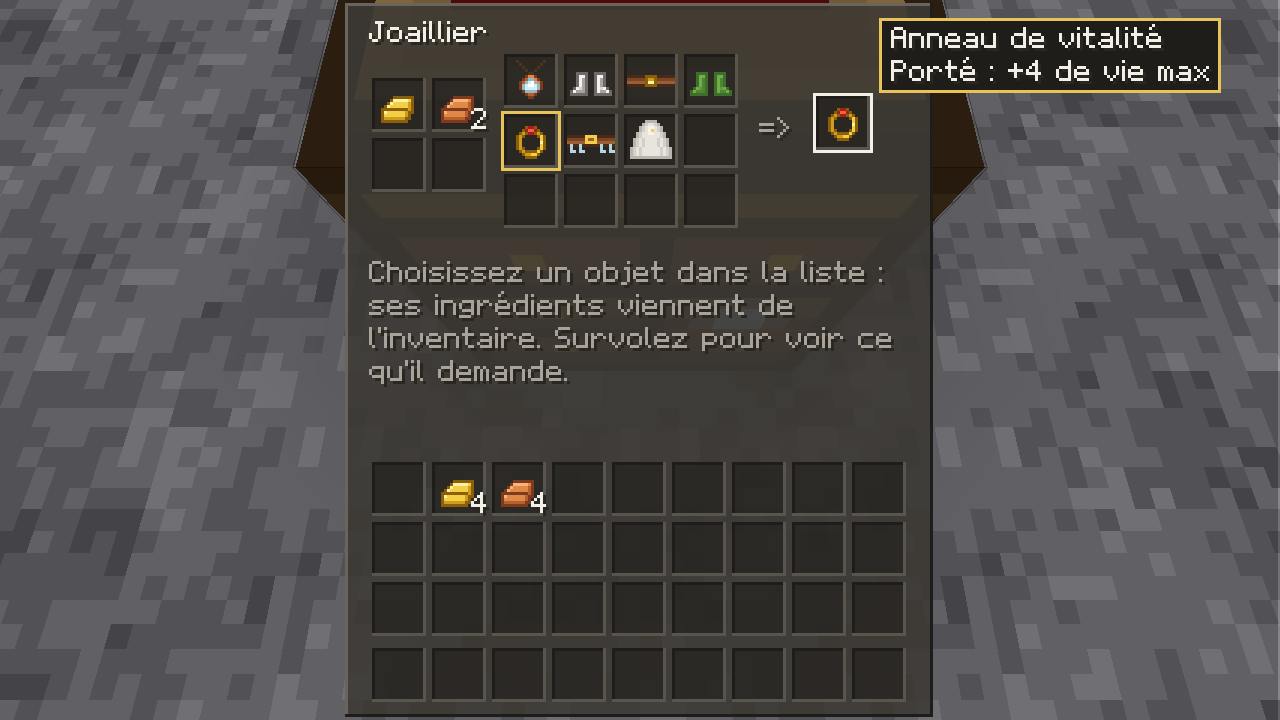
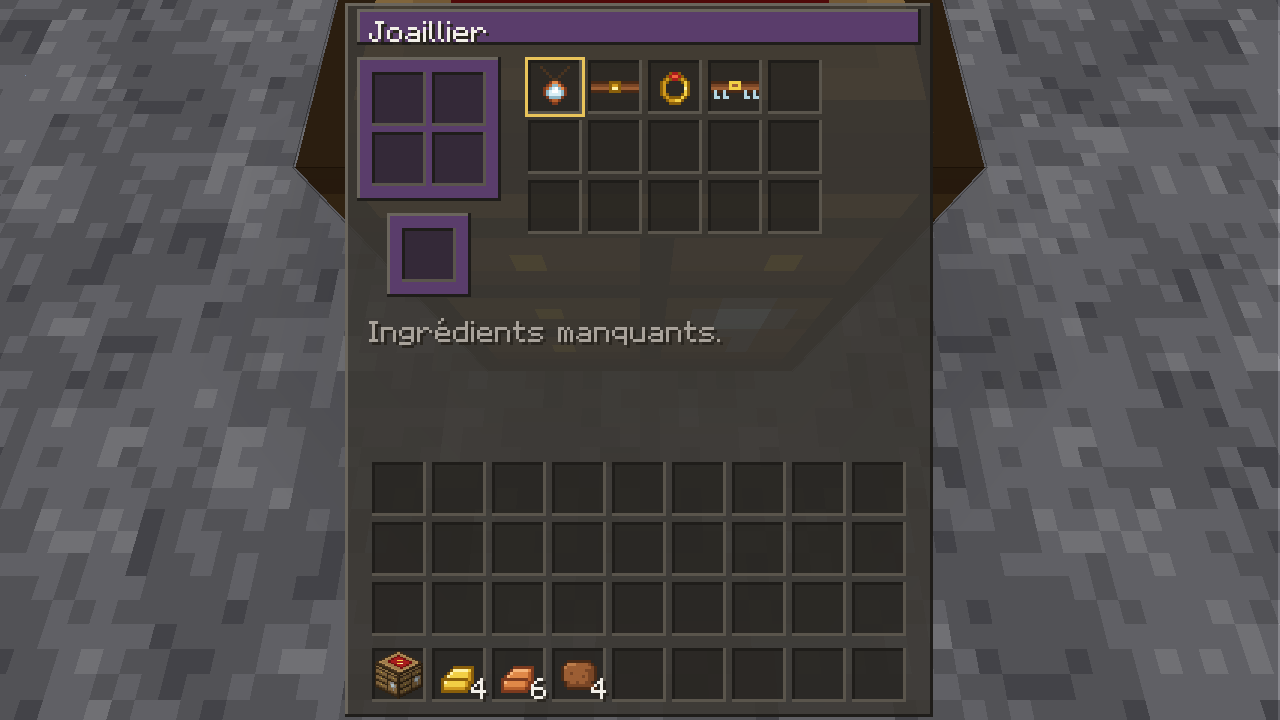
docs(stations): shorter bench help, captures, workshop scene, explanation, decisions D091-D092, balance tables; J6 done
Claude-Session: https://claude.ai/code/session_01RznEhak9j1HUkMPKL5bSvG

diff --git a/docs/explications/stations.md b/docs/explications/stations.md
@@ -1,0 +1,104 @@
+# Stations de travail
+
+## À quoi ça sert
+
+Chaque matériau se travaille à **sa** station : le bois et les outils à l'établi, la pierre au tailleur, les minerais au four, le métal à la **forge**, le cuir à la **tannerie**, le tissu et la laine au **métier à tisser**, les bijoux au **joaillier**, les améliorations à l'**enclume**. Le joueur comprend où aller en regardant la station ; le monde se remplit d'ateliers qu'on a envie de construire.
+
+| Station | Genre (`StationDef`) | Ce qu'on y fait |
+|---|---|---|
+| Établi | `Crafting(3)` | grille 3×3 (outils, armes, blocs, stations) |
+| Fours | entité de bloc `furnace` | cuisson et fonte, avec combustible |
+| Tailleur de pierre | `Stonecutter` | variantes de pierre |
+| Enclume | `Anvil` | améliorations, réparations |
+| Forge | `Bench("strata:forge")` | anneaux, écailles, armures de métal et de diamant, bottes de mobilité |
+| Tannerie | `Bench("strata:tannery")` | cuir (provisoire), armure de cuir |
+| Métier à tisser | `Bench("strata:loom")` | tissu, laine (provisoire), vêtements de tissu, cape de laine |
+| Joaillier | `Bench("strata:jeweller")` | anneaux, amulettes, ceintures |
+
+## Comment ça marche
+
+### Un seul établi, quatre stations
+
+La forge, la tannerie, le métier à tisser et le joaillier sont le **même** établi générique (D089) : quatre cases, une liste de recettes, un résultat. Seuls changent le bloc, l'identifiant et les recettes :
+
+```ron
+// blocks/forge.ron
+Block(
+    textures: TopBottomSides(top: "strata:forge_top", bottom: "strata:cobblestone", sides: "strata:forge_side"),
+    station: Some(Bench("strata:forge")),
+    …
+)
+
+// bench_recipes/iron_plate_chestplate.ron
+BenchRecipe(
+    bench: "strata:forge",
+    ingredients: [(Item("strata:iron_ingot"), 8), (Tag("strata:coals"), 1)],
+    result: Result(item: "strata:iron_plate_chestplate"),
+)
+```
+
+Choisir une recette envoie `ChooseCut` au serveur, qui pose les ingrédients de l'inventaire dans les cases (`fill_bench`) ; prendre le résultat les consomme (`take_bench`). Le client ne décide rien.
+
+### Le charbon de la forge
+
+La forge « brûle » du charbon sans mécanique nouvelle : le charbon est **un ingrédient comme un autre** (le tag `strata:coals`, charbon ou charbon de bois), un par pièce de métal. Pas de jauge de chaleur ni d'entité de bloc : tout est dans les recettes, réglable par pack. Les écailles de diamant se taillent sans feu.
+
+### Un écran par station
+
+Chaque établi a son allure, décrite dans le pack :
+
+```ron
+// benches/forge.ron
+Bench(layout: Forge, accent: "#7a3b1e")
+```
+
+- `layout` choisit une **disposition** parmi celles que l'écran d'inventaire connaît (`Plain`, `Jeweller`, `Forge`, `Tannery`, `Loom`). Dans `assets/ui/inventory.ron`, chacune est un groupe `bench_layout_<nom>` qui place autrement les mêmes éléments : cases (2×2, en ligne pour la tannerie comme des peaux sur un séchoir, en colonne pour le métier comme une chaîne de fils), liste, résultat, aide.
+- `accent` colore les **bandes** (`Band`, un nouvel élément d'interface) : le bandeau du titre et la surface de travail sous les cases.
+- L'aide sous la liste est la traduction `bench-<espace>-<nom>` (sinon l'aide générale).
+- Sans fichier `benches/`, un établi prend la disposition `Plain` et les couleurs du thème : un pack peut ajouter un établi avec seulement un bloc et des recettes.
+
+La liste montre 5 × 3 recettes dans toutes les dispositions ; au-delà (la forge en a 29), les boutons « < » « > » et la molette la font défiler par rangées. À la manette, la croix passe d'un élément à l'autre comme partout.
+
+```mermaid
+flowchart LR
+    B[blocks/forge.ron : Bench id] --> S[écran d'inventaire]
+    St[benches/forge.ron : layout, accent] --> S
+    R[bench_recipes/ : bench = id] --> L[liste]
+    S --> G[groupe bench_layout_forge]
+    G --> L
+    L -- ChooseCut --> Srv[serveur : fill_bench, take_bench]
+```
+
+### Les recettes des stations
+
+À l'établi : forge = 3 lingots de fer sur un four entouré de 5 galets ; tannerie = bâtons en cadre autour d'une boue sur 3 planches ; métier à tisser = 3 bâtons sur 3 fibres sur 3 planches. La tannerie et le métier sont connus dès le départ (le cuir et le tissu sont les premières armures) ; la forge s'apprend.
+
+Le cuir et la laine restent **provisoires** (fibres et boue, fibres seules) jusqu'aux animaux de la v0.4 : leurs recettes sont déjà à la bonne station, il suffira d'en changer les ingrédients pour des peaux et de la laine de mouton.
+
+## Dans le code
+
+| Quoi | Où |
+|---|---|
+| Recettes d'établi, liste, poser, prendre | `crates/core/src/crafting/bench.rs`, `bench_load.rs` |
+| Allure d'un établi (`benches/`) | `crates/core/src/crafting/bench_style.rs` |
+| Fenêtre côté serveur | `crates/server/src/game/bench.rs` |
+| Écran : disposition, couleur, aide, défilement | `crates/client/src/screens/bench.rs`, `assets/ui/inventory.ron` |
+| Élément `Band` | `crates/client/src/ui/def.rs`, `ui/widgets/mod.rs` |
+| Tests | `crates/core/tests/stations.rs`, `crafting/bench_tests.rs`, `crates/client/src/screens/bench_tests.rs`, `crates/server/src/game/equipment_tests.rs` |
+| Wiki (page « Stations de travail ») | `crates/wikigen/src/stations.rs` |
+| Contenu | `assets/packs/strata/{blocks,benches,bench_recipes,recipes,textures}/` |
+
+<details><summary>Côté Rust</summary>
+
+- **Un `enum` pour les dispositions** : `BenchLayout` est lu par serde ; une valeur inconnue (`layout: Spinning`) devient une erreur de pack, au lieu d'un écran vide. `BenchLayout::ALL` permet au test de vérifier que l'écran a un groupe pour chacune.
+- **`#[serde(default)]`** : `layout` et `accent` peuvent manquer ; `BenchStyle::default()` donne `Plain` et aucune couleur.
+- **`Option::then` puis `flatten`** : `id.starts_with("bench_band").then(|| …accent).flatten()` ne cherche la couleur que pour les bandes.
+- **`strip_prefix`** : `id.strip_prefix("bench_layout_")` dit à la fois si l'id est une disposition et laquelle.
+- **`saturating_add_signed`** : faire défiler de −1 au début reste à 0 au lieu de déborder.
+
+</details>
+
+## Pour aller plus loin
+
+- Décisions D091 et D092 dans `docs/decisions.md` ; recettes et coûts dans `docs/regles/equilibrage.md` (« Stations de travail »).
+- [Craft](craft.md), [Fours et tailleur de pierre](fours.md), [Accessoires et joaillier](accessoires-et-sets.md), [Améliorations et enclume](ameliorations.md).

diff --git a/docs/regles/equilibrage.md b/docs/regles/equilibrage.md
@@ -68,6 +68,9 @@ Coûts de Minecraft, pour qu'un joueur habitué ne soit pas dérouté. « Dépar
 | Fumoir | four + 4 bûches en croix | 3×3 | non |
 | Haut fourneau | four + 5 lingots de fer + 3 pierres polies | 3×3 | non |
 | Tailleur de pierre | 1 lingot de fer sur 3 pierres | 3×3 | non |
+| Forge | 3 lingots de fer sur 1 four entouré de 5 galets | 3×3 | non |
+| Tannerie | 4 bâtons en cadre autour d'1 boue, sur 3 planches | 3×3 | oui |
+| Métier à tisser | 3 bâtons sur 3 fibres végétales sur 3 planches | 3×3 | oui |
 | 4 briques de pierre / pierres polies / grès taillés | 4 pierres / briques / grès en carré | 2×2 | non |
 
 Butin associé : la pierre donne de la pierre taillée, les minerais de charbon un charbon, les minerais de diamant un diamant (pioche requise). Les outils en bois et en pierre sont des recettes de départ (voir « Outils, armes et armures »).
@@ -136,7 +139,7 @@ Valeurs de départ, à ajuster avec la crate `balance` (jalon 17).
 | Burin | 1 lingot de fer sur 1 bâton | tier fer, 128 utilisations |
 | Outil multi-usage | 5 lingots de fer + 2 bâtons | pioche + hache + pelle au niveau du fer, 150 utilisations (au lieu de 250) |
 
-Armures : protection par pièce (tête / torse / jambes / pieds), utilisations = facteur × (11 / 16 / 15 / 13), recettes aux formes de Minecraft.
+Armures : protection par pièce (tête / torse / jambes / pieds), utilisations = facteur × (11 / 16 / 15 / 13), quantités de Minecraft (5 / 8 / 7 / 4 du matériau) à la station du matériau (voir « Stations de travail »).
 
 | Ensemble | Poids | Protection | Total | Facteur | Matériau |
 |---|---|---|---|---|---|
@@ -155,7 +158,7 @@ Armures : protection par pièce (tête / torse / jambes / pieds), utilisations =
 | Intermédiaire | 0 | 2,5 % | 2,5 % |
 | Lourde | 2,5 % (−10 % pour l'ensemble) | 5 % | 5 % |
 
-Matériaux : fibre végétale (hautes herbes et fougères sans cisailles, 1 chance sur 4), tissu = 3 fibres, cuir provisoire = 2 fibres + 1 boue (jusqu'aux animaux, v0.4).
+Matériaux : fibre végétale (hautes herbes et fougères sans cisailles, 1 chance sur 4), tissu = 3 fibres (métier à tisser), cuir provisoire = 2 fibres + 1 boue (tannerie, jusqu'aux peaux des animaux, v0.4), anneaux = 2 lingots + 1 charbon → 4, écailles de diamant = 1 diamant → 2 (forge).
 
 ## Améliorations, enclume et marteau de mineur (v0.3, `upgrades/`, `anvil.ron`)
 
@@ -199,17 +202,17 @@ Temps de casse de la zone = celui du bloc le plus dur qu'elle emporte ; une util
 
 Valeurs de départ, à ajuster avec la crate `balance` (jalon 17). Un même effet (même stat, même opération) ne se cumule pas : de toutes les pièces portées et des bonus d'ensemble atteints, seul le plus fort compte.
 
-| Objet (case) | Effet porté | Recette au joaillier |
+| Objet (case) | Effet porté | Recette (joaillier sauf mention) |
 |---|---|---|
 | Anneau de vitalité (anneau) | +4 vie max (appliqué au jalon 8) | 1 lingot d'or, 2 lingots de cuivre |
 | Amulette de respiration courte (amulette) | +5 s de souffle (jalon 8) | 2 lingots de cuivre, 1 lingot de fer, 1 tissu |
 | Ceinture à fioles (ceinture) | +3 emplacements de potion (potions à venir) | 3 cuirs, 1 lingot de fer |
-| Cape de laine (cape) | +4 isolation contre le froid (jalon 8) | 4 laines, 2 fibres végétales |
+| Cape de laine (cape) | +4 isolation contre le froid (jalon 8) | métier à tisser : 4 laines, 2 fibres végétales |
 | Ceinture de course (ceinture) | esquive | 2 cuirs, 1 lingot d'or, 1 lingot de cuivre |
-| Bottes de saut (pieds, légères, protection 1, 65 utilisations) | +1 saut en l'air | 1 paire de bottes en cuir, 2 lingots d'or |
-| Bottes à crampons (pieds, légères, protection 1, 65 utilisations) | escalade | 1 paire de bottes en cuir, 2 lingots de fer |
+| Bottes de saut (pieds, légères, protection 1, 65 utilisations) | +1 saut en l'air | forge : 1 paire de bottes en cuir, 2 lingots d'or, 1 charbon |
+| Bottes à crampons (pieds, légères, protection 1, 65 utilisations) | escalade | forge : 1 paire de bottes en cuir, 2 lingots de fer, 1 charbon |
 | Joaillier | — | à l'établi : 2 lingots de cuivre, 1 lingot de fer, 3 planches |
-| Laine (provisoire jusqu'aux moutons, v0.4) | — | 4 fibres végétales (grille) |
+| Laine (provisoire jusqu'aux moutons, v0.4) | — | métier à tisser : 4 fibres végétales |
 
 | Ensemble (4 pièces) | 2 pièces | 3 pièces | 4 pièces |
 |---|---|---|---|
@@ -229,6 +232,19 @@ Le bonus atteint remplace le précédent. Une pièce cassée (option « Objets u
 | Saut en l'air | 7,6 blocs/s vers le haut (saut au sol : 8,4), une nouvelle pression de Sauter ; rendu seulement en touchant le sol (pas en grimpant) ; 3 au plus (`max_air_jumps`, 0 à 5) |
 | Esquive | 14 blocs/s pendant 4 ticks (≈ 2,8 blocs), recharge 30 ticks (1,5 s) |
 | Escalade | 2,4 blocs/s en avançant contre un mur ; accroupi : on reste accroché |
+
+## Stations de travail (v0.3, `bench_recipes/`, `benches/`)
+
+Chaque matériau a sa station ; aucune armure ne se fait à l'établi. Valeurs de départ, à ajuster avec la crate `balance` (jalon 17).
+
+| Station | Recettes | Coût particulier |
+|---|---|---|
+| Forge (29) | anneaux de fer et d'or, écailles de diamant ; mailles de fer et d'or, plates de fer, d'or et de diamant, écailles de diamant (4 pièces chacune) ; bottes de saut et à crampons | 1 charbon (ou charbon de bois) par pièce de métal ; pas pour les écailles |
+| Tannerie (5) | cuir (provisoire : 2 fibres + 1 boue), casque, tunique, pantalon, bottes en cuir | — |
+| Métier à tisser (7) | tissu (3 fibres), laine (provisoire : 4 fibres), capuche, tunique, pantalon, chaussures en tissu, cape de laine | — |
+| Joaillier (4) | anneau de vitalité, amulette de respiration courte, ceinture à fioles, ceinture de course | — |
+
+Ce que le charbon ajoute : un ensemble de plates (24 lingots) brûle 4 charbons ; un ensemble de mailles (24 anneaux = 12 lingots) 6 charbons d'anneaux + 4 de pièces.
 
 ## Coffres et fours améliorables (v0.3)
 

diff --git a/docs/decisions.md b/docs/decisions.md
@@ -744,3 +744,19 @@ Une entrée courte par décision : contexte, choix, alternatives écartées. Les
 - Serveur : un clic retient la dernière entrée reçue avant lui (`Queued::after_input`) et ne passe qu'une fois cette entrée appliquée ; le tick s'arrête juste après elle pour que le clic passe avant l'entrée suivante, comme chez le client. Sans entrée en attente, rien ne change (clic immédiat).
 - Client : chaque case prédite retient la dernière entrée envoyée avant le clic ; au rejeu, une entrée antérieure voit le bloc du serveur (`BlockPredictions::block_before`). Vaut pour la casse (créatif et survie) comme pour la pose (pilier sous soi).
 - Une petite correction (< 2 blocs) ne saute plus à l'écran : l'écart s'efface en ~0,1 s ; au-delà, c'est une téléportation, appliquée d'un coup.
+
+## D091 — Stations spécialisées : forge, tannerie, métier à tisser (v0.3, jalon 6)
+
+- **Une station par matériau** : la forge fait les anneaux et écailles, toutes les armures de métal et de diamant (mailles, plates, écailles) et les bottes de mobilité (l'« armurier » de D089) ; la tannerie le cuir et l'armure de cuir ; le métier à tisser le tissu, la laine, les vêtements de tissu et la cape de laine (quittent le joaillier, qui garde anneaux, amulette, ceintures). Leurs anciennes recettes de grille sont supprimées : aucune armure ne se fait plus à l'établi. Les outils et armes restent à l'établi (coûts de Minecraft), l'amélioration et la réparation à l'enclume, la fonte aux fours.
+- Mêmes établis génériques que le joaillier (`Bench`, `bench_recipes/`), mêmes quantités que les formes de Minecraft (casque 5, plastron 8, jambières 7, bottes 4).
+- **Charbon de la forge** : une pièce de métal (anneaux compris) prend un `Tag("strata:coals")` comme ingrédient ; pas de jauge de chaleur ni d'entité de bloc. Anneaux : 2 lingots + 1 charbon → 4 (au lieu de 1 → 2) pour que le charbon reste léger ; écailles de diamant : 1 diamant → 2, sans charbon (taille).
+- **Recettes des stations** à l'établi : forge (3 lingots de fer, four, 5 galets ; à apprendre), tannerie (4 bâtons, 1 boue, 3 planches) et métier à tisser (3 bâtons, 3 fibres, 3 planches) **connues au départ**, comme les premières armures.
+- Cuir (2 fibres + 1 boue) et laine (4 fibres) **restent provisoires** jusqu'aux animaux (v0.4), mais déjà à leur station : il suffira de changer les ingrédients pour des peaux.
+
+## D092 — Un écran par établi : dispositions et couleur en pack (v0.3, jalon 6)
+
+- `benches/<nom>.ron` : `Bench(layout, accent)` (`crafting::BenchStyle`, gardé dans `Benches::style`, `Plain` et couleurs du thème sans fichier ; catégorie ajoutée à `remove.ron`). `layout` est un `enum` fermé (`Plain`, `Jeweller`, `Forge`, `Tannery`, `Loom`) : une valeur inconnue est une erreur de pack, jamais un écran vide. Les dispositions sont des groupes `bench_layout_<nom>` de `assets/ui/inventory.ron` (format interne jusqu'à la v1.1) ; un test vérifie que chacune a cases, liste 5×3, résultat, boutons de défilement et aide.
+- Nouvel élément d'interface `Band` (bande biseautée de la couleur donnée par le modèle, `ScreenModel::color`) : bandeau de titre et surface de travail aux couleurs de l'établi.
+- Aide propre : traduction `bench-<espace>-<nom>` si elle existe, sinon `ui-bench-help` ; « Ingrédients manquants » quand le choix ne peut pas se faire.
+- **Liste qui défile** par rangées (5 × 3 visibles ; boutons « < » « > » et molette, comme l'enclume) : la forge a 29 recettes. Les indices restent ceux du serveur.
+- `SlotsModel::furnace_info` passe dans `station_lists.rs` (taille de `slots.rs`). Wiki : page mécanique « Stations de travail » (tableau de toutes les stations, icônes de ce que fait chaque établi), pages des trois blocs ; « Fabriqué à un atelier » remplace « Au joaillier ».

diff --git a/PROGRESS.md b/PROGRESS.md
@@ -3,7 +3,7 @@
 ## État
 
 - **Version en cours** : v0.3 — Survie. Détail : `docs/versions/v0.3.md`.
-- **Jalon en cours** : 6 — Stations de travail spécialisées
+- **Jalon en cours** : 7 — Rangement
   - [x] J1 Objets et inventaire (piles, durabilité, métadonnées, 27+9+4+1, glisser-déposer, tri, verrouillage, dépôt rapide, recherche, objets lâchés, coffres, tonneaux)
   - [x] J2 Récolte (temps de casse, fissures, tables de butin, outil requis)
   - [x] J3 Craft (2×2, établi, recettes en pack, livre de recettes, fours/fumoir/haut fourneau, tailleur de pierre, fours améliorables)
@@ -17,7 +17,8 @@
     - [x] J5a emplacements d'accessoires (46 cases, migration), stats portées uniques (armure + accessoires + sets, non-cumul), sets en pack, mobilité (double saut, esquive, escalade) partagée serveur/client, option de monde, joaillier (établi générique `Bench`, `bench_recipes/`), accessoires et bottes, laine provisoire, wiki
     - [x] J5b captures (inventaire, infobulle d'ensemble fr/en/lol, joaillier, DS), docs (accessoires-et-sets.md, D086-D089, équilibrage), wiki
     - Note pour J6 : forge, tannerie, métier à tisser = établis `Bench` (D089) ; y déplacer les bottes de mobilité (armurier). Note pour J8 : lire `WornStat::MaxHealth`, `Breath`, `Insulation` dans `worn_stats`. Note pour J13 : recettes d'établi toutes connues.
-  - [ ] J6 Stations de travail spécialisées
+  - [x] J6 Stations de travail spécialisées (forge avec charbon en ingrédient, tannerie, métier à tisser sur l'établi générique ; armures, anneaux, écailles, bottes de mobilité, cuir, tissu, laine, cape déplacés à leur station ; écran propre par établi : `benches/` (disposition, couleur), bandes, aide, liste qui défile ; page wiki « Stations de travail » ; D091-D092)
+    - Note pour J7 : convertir d'abord les modules de four en améliorations (D085). Note pour v0.4 : cuir et laine provisoires déjà à la tannerie et au métier, remplacer les ingrédients par peaux et laine de mouton.
   - [ ] J7 Rangement (sac à dos, bourses, coffres et tonneaux améliorables)
   - [ ] J8 Jauges de survie (vie, faim, soif, température, endurance, dégâts, soins, HUD)
   - [ ] J9 Expérience

diff --git a/docs/explications/accessoires-et-sets.md b/docs/explications/accessoires-et-sets.md
@@ -2,7 +2,7 @@
 
 ## À quoi ça sert
 
-Sans classe ni arbre de compétences, le joueur se construit par son équipement. En plus de l'armure, il porte des **accessoires** (deux anneaux, une amulette, une ceinture, une cape), gagne des **bonus d'ensemble** en assortissant ses pièces, et certaines bottes ou ceintures lui donnent une **mobilité** nouvelle : double saut, esquive, escalade. Les accessoires se fabriquent au **joaillier**, premier établi à liste de recettes. Tout est décrit dans les packs.
+Sans classe ni arbre de compétences, le joueur se construit par son équipement. En plus de l'armure, il porte des **accessoires** (deux anneaux, une amulette, une ceinture, une cape), gagne des **bonus d'ensemble** en assortissant ses pièces, et certaines bottes ou ceintures lui donnent une **mobilité** nouvelle : double saut, esquive, escalade. Les accessoires se fabriquent au **joaillier**, premier établi à liste de recettes (la cape au métier à tisser, les bottes de mobilité à la forge depuis le jalon 6). Tout est décrit dans les packs.
 
 ## Comment ça marche
 
@@ -84,7 +84,7 @@ BenchRecipe(
 )
 ```
 
-L'écran liste tout ce que l'établi sait faire ; l'infobulle donne les ingrédients et dit s'il en manque. Choisir une recette envoie au serveur `ChooseCut`, qui pose les ingrédients de l'inventaire dans les quatre cases ; on prend le résultat comme au craft. La forge, la tannerie et le métier à tisser (jalon 6) seront d'autres établis du même genre.
+L'écran liste tout ce que l'établi sait faire ; l'infobulle donne les ingrédients et dit s'il en manque. Choisir une recette envoie au serveur `ChooseCut`, qui pose les ingrédients de l'inventaire dans les quatre cases ; on prend le résultat comme au craft. La forge, la tannerie et le métier à tisser sont d'autres établis du même genre : voir [Stations de travail](stations.md).
 
 ## Dans le code
 

diff --git a/docs/explications/README.md b/docs/explications/README.md
@@ -44,6 +44,7 @@ Ce dossier explique **comment marche Strata Mundi**, pour quelqu'un qui découvr
 33. [Outils, armes et armures](outils-et-armures.md) : tiers et poids d'armure en pack, outils spécialisés (houe, burin, faucille, multi-usage), protection, ralentissement de l'armure lourde, durabilité selon l'option de monde.
 34. [Améliorations, enclume et marteau de mineur](ameliorations.md) : améliorations en pack par briques d'effets, calcul unique des statistiques, non-cumul, enclume (améliorer, réparer), marteau à zone.
 35. [Accessoires, ensembles, mobilité et joaillier](accessoires-et-sets.md) : cinq cases d'accessoires, calcul unique de ce qui est porté, non-cumul, bonus d'ensemble en pack, double saut, esquive, escalade, établi à liste de recettes.
+36. [Stations de travail](stations.md) : une station par matériau, forge (charbon), tannerie, métier à tisser et joaillier sur un même établi à liste, écran propre à chaque établi (disposition et couleur en pack), liste qui défile.
 
 Les autres systèmes (chunks, génération, packs, sauvegarde, interface, réglages…) ont leur fichier dès qu'ils apparaissent.
 
